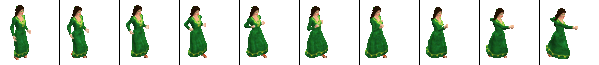
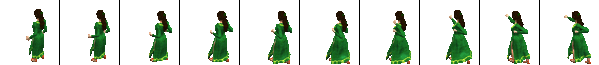
Fixed a few things Animations work properly

diff --git a/ui/isometric/IsoGameModelDataSource.java b/ui/isometric/IsoGameModelDataSource.java
@@ -1,5 +1,8 @@
 package ui.isometric;
 
+import java.util.HashMap;
+import java.util.Map;
+import java.util.concurrent.locks.ReadWriteLock;
 import java.util.concurrent.locks.ReentrantReadWriteLock;
 
 import util.Area;
@@ -16,7 +19,7 @@ import game.*;
  *
  */
 public class IsoGameModelDataSource implements IsoDataSource {
-	private GameWorld gameModel;
+	private GameWorld gameWorld;
 	private IsoSquare[][] squares = null;
 	private ReentrantReadWriteLock cacheChange = new ReentrantReadWriteLock();
 	private IsoSquare emptySquare = new IsoSquare();
@@ -28,12 +31,49 @@ public class IsoGameModelDataSource implements IsoDataSource {
 	private int arrayPaddingY = 100; // TODO: calculate
 	private int arrayPaddingX = 100; // TODO: calculate
 	
+	private Map<Long, Animation> animations = new HashMap<Long, Animation>();
+	private ReadWriteLock animationsLock = new ReentrantReadWriteLock();
+	
+	private static final double ANIMATION_FPS = 15;
+	
+	private class Animation {
+		private String renderer;
+		private long startTime;
+		
+		public Animation(String renderer) {
+			this.renderer = renderer;
+			this.startTime = System.currentTimeMillis();
+		}
+		
+		public long startTime() {
+			return startTime;
+		}
+		
+		public String renderer() {
+			return renderer;
+		}
+	}
+	
 	/**
 	 * Create a IsoGameModelDataSource with a given GameModel
 	 * @param model
 	 */
 	public IsoGameModelDataSource(GameWorld model) {
-		gameModel = model;
+		gameWorld = model;
+		gameWorld.addDeltaWatcher(new GameWorld.DeltaWatcher() {
+			@Override
+			public void delta(WorldDelta d) {
+				if(d.action() instanceof WorldDelta.Animate) {
+					WorldDelta.Animate animate = (WorldDelta.Animate)d.action();
+					GameThing t = animate.which(gameWorld);
+					String r = animate.what();
+															
+					animationsLock.writeLock().lock();
+					animations.put(t.gid(), new Animation(r));
+					animationsLock.writeLock().unlock();
+				}
+			}
+		});
 	}
 	
 	@Override
@@ -93,7 +133,32 @@ public class IsoGameModelDataSource implements IsoDataSource {
 				if(square == null) {
 					square = new IsoSquare();
 				}
-				square.addImageForLevel(IsoRendererLibrary.newImageFromGameThing(square, thing, viewDirection), IsoRendererLibrary.levelFromArguments(thing.userArguments()));
+				
+				animationsLock.readLock().lock();
+				Animation animate = animations.get(thing.gid());
+				animationsLock.readLock().unlock();
+				if(animate == null) {
+					IsoImage image = IsoRendererLibrary.newImageFromGameThing(square, thing, viewDirection);
+					square.addImageForLevel(image, IsoRendererLibrary.levelFromArguments(thing.userArguments()));
+				}
+				else {
+					IsoRendererLibrary.RendererImage animation = IsoRendererLibrary.imageForRendererName(animate.renderer(), viewDirection);
+										
+					if(animate.startTime() < System.currentTimeMillis() - (animation.frameCount() / ANIMATION_FPS * 1000.0)) {						
+						IsoImage image = IsoRendererLibrary.newImageFromGameThing(square, thing, viewDirection);
+						square.addImageForLevel(image, IsoRendererLibrary.levelFromArguments(thing.userArguments()));
+						
+						animationsLock.writeLock().lock(); // Animation stopped
+						animations.remove(thing);
+						animationsLock.writeLock().unlock();
+					}
+					else {
+						int frame = (int) ((System.currentTimeMillis() - animate.startTime()) / 1000.0 * ANIMATION_FPS);
+						IsoImage image = IsoRendererLibrary.newImageFromGameThing(square, thing, viewDirection, animate.renderer(), frame);
+						square.addImageForLevel(image, IsoRendererLibrary.levelFromArguments(thing.userArguments()));
+					}
+				}
+				
 				squares[pos.x()+arrayPaddingX][pos.y()+arrayPaddingY] = square;
 			}
 		}
@@ -107,6 +172,6 @@ public class IsoGameModelDataSource implements IsoDataSource {
 
 	@Override
 	public Level level() {
-		return gameModel.level(0);
+		return gameWorld.level(0);
 	}
 }

diff --git a/ui/isometric/IsoRendererLibrary.java b/ui/isometric/IsoRendererLibrary.java
@@ -502,6 +502,27 @@ public class IsoRendererLibrary {
 		
 		return tmp;
 	}
+	
+	/**
+	 * Get a new IsoImage representing a given Animation
+	 * @param square
+	 * @param thing
+	 * @param viewDirection
+	 * @param rendererName
+	 * @param animationFrame
+	 * @return
+	 */
+	public static IsoImage newImageFromGameThing(IsoSquare square, GameThing thing, Direction viewDirection, String rendererName, int animationFrame) {
+		IsoImage tmp = null;
+		
+		Location l = thing.location();
+		if(l instanceof Level.Location) {
+			tmp = new IsoAnimatedImage(imageForRendererName(rendererName, ((Level.Location)l).direction().compose(viewDirection)), square, offsetForRendererName(thing.renderer()), animationFrame);
+			tmp.setGameThing(thing);
+		}
+		
+		return tmp;
+	}
 
 	/**
 	 * Get all the renderers supported

diff --git a/ui/isometric/IsoInterface.java b/ui/isometric/IsoInterface.java
@@ -52,8 +52,10 @@ public class IsoInterface implements PlayerMessage {
 		
 		frame = new JFrame(name);
 		frame.setDefaultCloseOperation(JFrame.EXIT_ON_CLOSE);
-		IsoDataSource d = new IsoGameModelDataSource(this.model);
-		canvas = new IsoCanvas(d);
+		
+		IsoDataSource dataSource = new IsoGameModelDataSource(this.model);
+		
+		canvas = new IsoCanvas(dataSource);
 		canvas.addSelectionCallback(new IsoCanvas.SelectionCallback() {
 			@Override
 			public void selected(final IsoImage i, final Location l, MouseEvent event) {
@@ -138,6 +140,7 @@ public class IsoInterface implements PlayerMessage {
 		});
 		canvas.addLayerRenderer(chatRenderer);
 		canvas.addLayerRenderer(quickBarRenderer);
+		
 		frame.setSize(300, 300);
 		frame.add(canvas);
 	}

diff --git a/ui/isometric/IsoAnimatedImage.java b/ui/isometric/IsoAnimatedImage.java
@@ -1,0 +1,24 @@
+package ui.isometric;
+
+import java.awt.image.BufferedImage;
+
+import ui.isometric.IsoRendererLibrary.RendererImage;
+
+public class IsoAnimatedImage extends IsoImage {
+	private int animationStep;
+	
+	public IsoAnimatedImage(RendererImage rendererImage, IsoSquare square, int yoff) {
+		super(rendererImage, square, yoff);
+		animationStep = 0;
+	}
+
+	public IsoAnimatedImage(RendererImage rendererImage, IsoSquare square, int yoff, int animationStep) {
+		super(rendererImage, square, yoff);
+		this.animationStep = animationStep;
+	}
+	
+	@Override
+	public BufferedImage image() {
+		return rawImage().image(animationStep);
+	}
+}

diff --git a/ui/isometric/IsoCanvas.java b/ui/isometric/IsoCanvas.java
@@ -47,7 +47,7 @@ public class IsoCanvas extends JPanel implements MouseMotionListener, MouseListe
 	private Point selectionPoint = new Point(0, 0);
 	private UILayerRenderer selectedRenderer;
 	
-	private static final double fps = 20;
+	public static final double FPS = 20;
 	
 	private List<UILayerRenderer> extraRenderers = new ArrayList<UILayerRenderer>();
 	
@@ -126,7 +126,7 @@ public class IsoCanvas extends JPanel implements MouseMotionListener, MouseListe
 				while(true) {
 					repaint();
 					try {
-						Thread.sleep((long) (1000/fps));
+						Thread.sleep((long) (1000/FPS));
 					} catch (InterruptedException e) { }
 				}
 			}

diff --git a/ui/isometric/IsoImage.java b/ui/isometric/IsoImage.java
@@ -36,7 +36,7 @@ public class IsoImage {
 	 * @return
 	 */
 	public BufferedImage image() {
-		return image.image((int) (Math.random()*100));
+		return image.image();
 	}
 	
 	/**
@@ -85,5 +85,13 @@ public class IsoImage {
 	 */
 	public int yoffset() {
 		return yoffset;
+	}
+	
+	/**
+	 * Get the RendererImage that backs this IsoImage
+	 * @return
+	 */
+	protected RendererImage rawImage() {
+		return image;
 	}
 }
